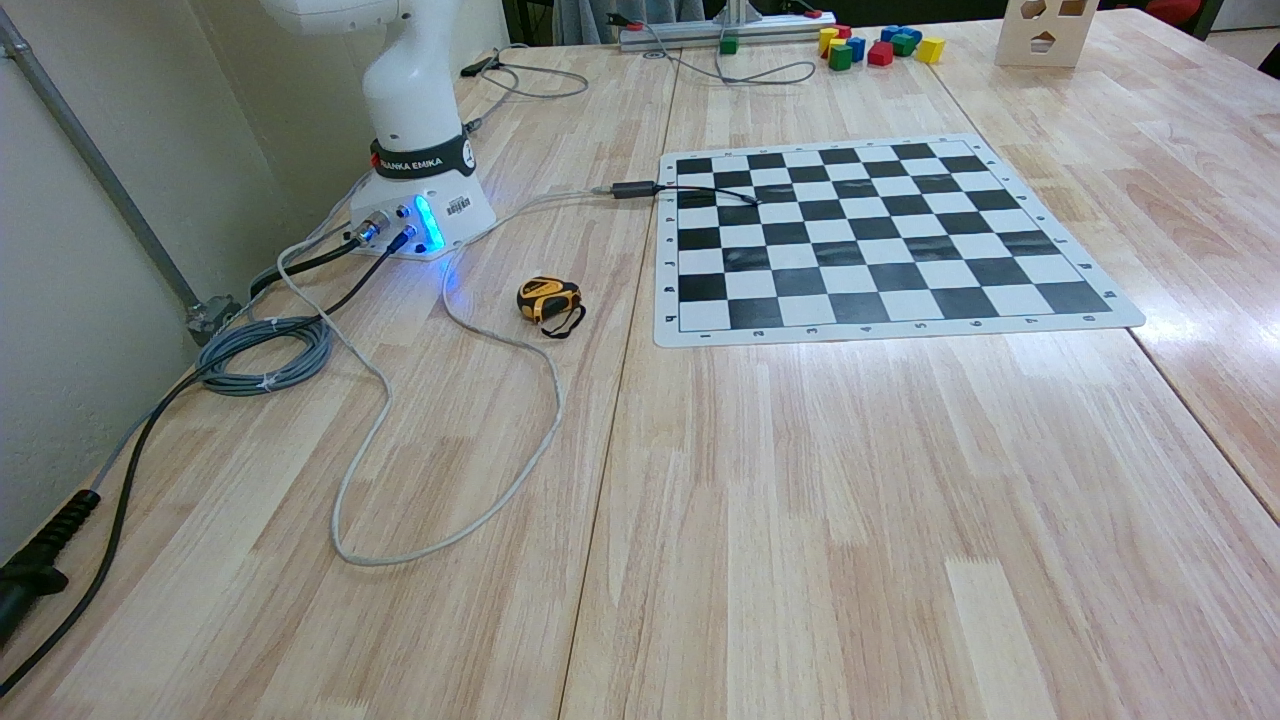
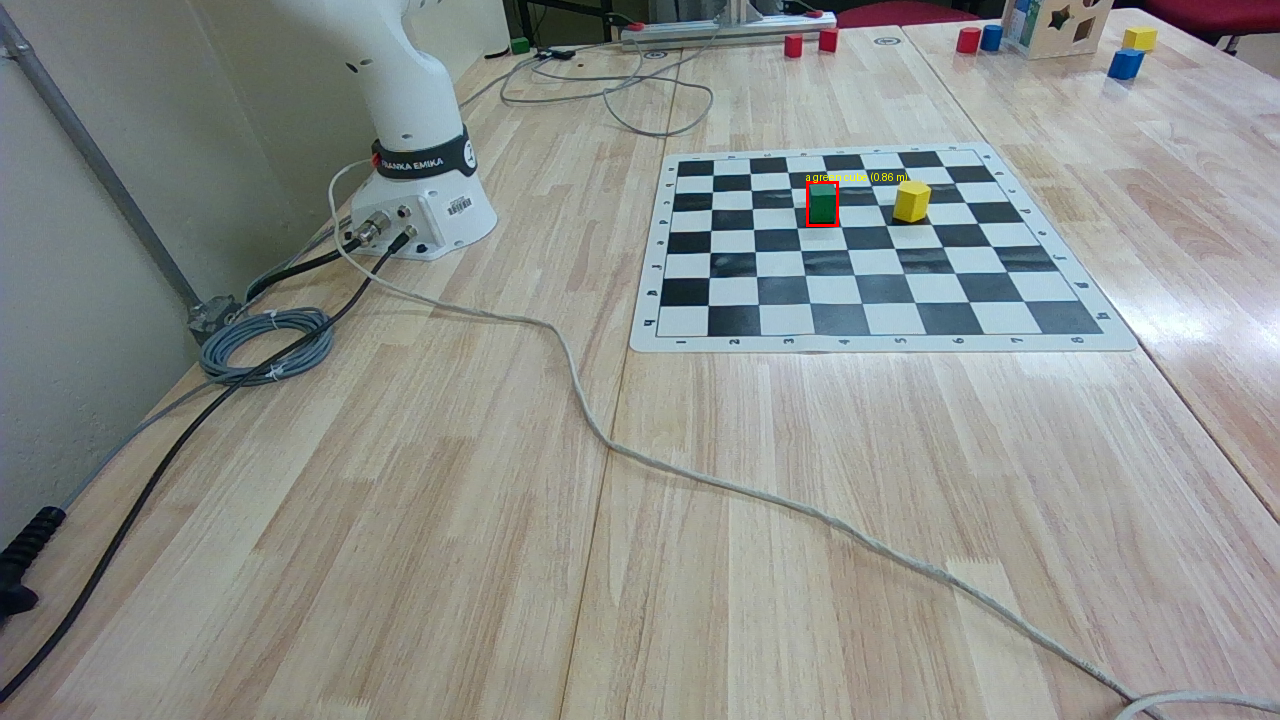
object detection with transformation

diff --git a/dino_3d_location.py b/dino_3d_location.py
@@ -12,15 +12,14 @@ def load_model(model_id="IDEA-Research/grounding-dino-tiny"):
     processor = AutoProcessor.from_pretrained(model_id)
     model = AutoModelForZeroShotObjectDetection.from_pretrained(model_id).to(device)
     return processor, model, device
+
 def camera_to_world(H, point_c):
     """Transform camera coordinates to world coordinates using homogeneous transformation matrix"""
-    R = H[:3, :3]
-    t = H[:3, 3]
-    return np.dot(R, point_c) + t
+    col_vec = point_c.reshape(-1, 1) # change the array to a column vector of shape (4*1)
+    result = np.dot(H, col_vec)
+    return result[:3].flatten()
 
-
-
-def run_detection(rgb_path, depth_path, label_list, data, output_path):
+def run_detection(rgb_path, depth_path, label_list, data, output_path, transformation_matrix):
     # Load images
     image = Image.open(rgb_path).convert("RGB")
     depth_image = cv2.imread(depth_path, cv2.IMREAD_UNCHANGED)  # 16-bit depth
@@ -54,6 +53,7 @@ def run_detection(rgb_path, depth_path, label_list, data, output_path):
 
     # Store all detection results here
     detection_results = []
+    world_point = [0,0,0]
     for box, score, label in zip(result["boxes"], result["scores"], result["labels"]):
         box = [round(x, 2) for x in box.tolist()]
         x_min, y_min, x_max, y_max = map(int, box)
@@ -72,30 +72,18 @@ def run_detection(rgb_path, depth_path, label_list, data, output_path):
         x, y = calculate_x_y(u,v, data['cx'], data['cy'], data['fx'], data['fy'], z_m)
         print(f"Transformed to meter unit/Camera coordinates: x={x:.4f}m, y={y:.4f}m, z={depth_str}")
         
-        if z_m is not None and 'transformation_matrix' in data:
-            H = np.array(data['transformation_matrix'])  # Assuming 4x4 matrix in JSON
-            camera_point = np.array([x, y, z_m])
+        if z_m is not None and transformation_matrix:
+            H = np.array(transformation_matrix)
+            camera_point = np.array([x, y, z_m,1])
             world_point = camera_to_world(H, camera_point)
-            coords_world = [round(float(v), 4) for v in world_pt]   # [Xw, Yw, Zw]
-            print(f"World coordinates: x={world_x:.4f}m, y={world_y:.4f}m, z={world_z:.4f}m")
 
-
-        # Append to result list
-            detection_results.append({
+            '''detection_results.append({
                 "label": label,
                 "coords_in_meter": [round(x, 4), round(y, 4), round(z_m, 4)],
                 "coords_in_world": coords_world
+            })'''
 
-        })
-
-        else:
-
-            # Store only camera coordinates if no transformation matrix
-            detection_results.append({
-                "label": label,
-                "coords_in_pixel": [u, v],
-                "coords_in_camera": [round(x, 4), round(y, 4), round(z_m, 4)],
-            })
+    
         # Draw and label
         draw.rectangle([x_min, y_min, x_max, y_max], outline="red", width=3)
         draw.text((x_min, y_min - 10), f"{label} ({depth_str})", fill="yellow")
@@ -103,30 +91,20 @@ def run_detection(rgb_path, depth_path, label_list, data, output_path):
     # Save annotated image
     image_path = os.path.join(output_path, "image_bouding_box.png")
     image.save(image_path)
-    
+    '''
     # Save detection results to JSON
     json_path = os.path.join(output_path, "location.json")
     with open(json_path, "w") as f:
-        json.dump(detection_results, f, indent=4)
-    print(f"Annotated image and location data saved to {output_path}")
+        json.dump(detection_results, f, indent=4)'''
+    #print(f"Annotated image saved to {output_path}")
+    return world_point
 
 
 #Transformation code
 def calculate_x_y(x_prime,y_prime,c_x, c_y, f_x, f_y,z):
   """
   Calculates the (x), and (y) given the image distance(x_ prime) and (y_ prime) ,
-   and the principal points (c_x) and (c_y) ,object distance from lens (z), and focal length (f).
-
-  Args:
-    x: The object distance (x).
-    y: The object distance (y).
-    z: The object distance from the lens (z).
-    f_x: The x-coordinate of the focal length of the lens (f).
-    f_y = The y-coordinate of the focal length of the lens (f).
-    x_prime: The image distance (x_prime).
-    y_prime: The image distance (y_prime).
-    c_x: The x-coordinate of the center of the lens (c_x),.
-    c_y: The y-coordinate of the center of the lens (c_y).
+  and the principal points (c_x) and (c_y) ,object distance from lens (z), and focal length (f).
 
   Returns: x, y
   """
@@ -154,6 +132,17 @@ def main():
     content = file.read()
     label_list = [label.strip() for label in content.split(',')]
 
+    transformation_matrix = [[[ 0.99009612, -0.01594327, -0.13948292,  0.42709209],
+                            [ 0.09441481, -0.65968152,  0.74559113, -0.75780215],
+                            [-0.10390147, -0.75137614, -0.65164283,  0.50147743],
+                            [ 0.,          0. ,         0.   ,       1.        ]], 
+
+                            [[-0.99950439, -0.03119223, -0.00424504,  0.4710198 ],
+                            [-0.01747422,  0.66191747, -0.74937301,  0.8043515 ],
+                            [ 0.02618447, -0.74892744, -0.66213447,  0.40551513],
+                            [ 0. ,         0. ,         0. ,         1.        ]]]
+    i = 0
+    left_right_point = []
     for name in ['left_camera', 'right_camera']:
         camera_path = os.path.join(args.folder, name)
         #print(camera_path)
@@ -174,7 +163,15 @@ def main():
         print(f"\nObject Detection Running for {name}!!")
         output_dir = f"output/{name}"
         os.makedirs(output_dir, exist_ok=True)
-        run_detection(rgb_path, depth_path, label_list, data, output_dir)
+        world_p = run_detection(rgb_path, depth_path, label_list, data, output_dir, transformation_matrix[i])
+        print(f'index {i}: {world_p}')
+        left_right_point.append(world_p)
+        i += 1
+    
+    print("World Coordinate for the detected object")
+    for array in left_right_point:
+        print(array)
+
 
 if __name__ == "__main__":
     main()
